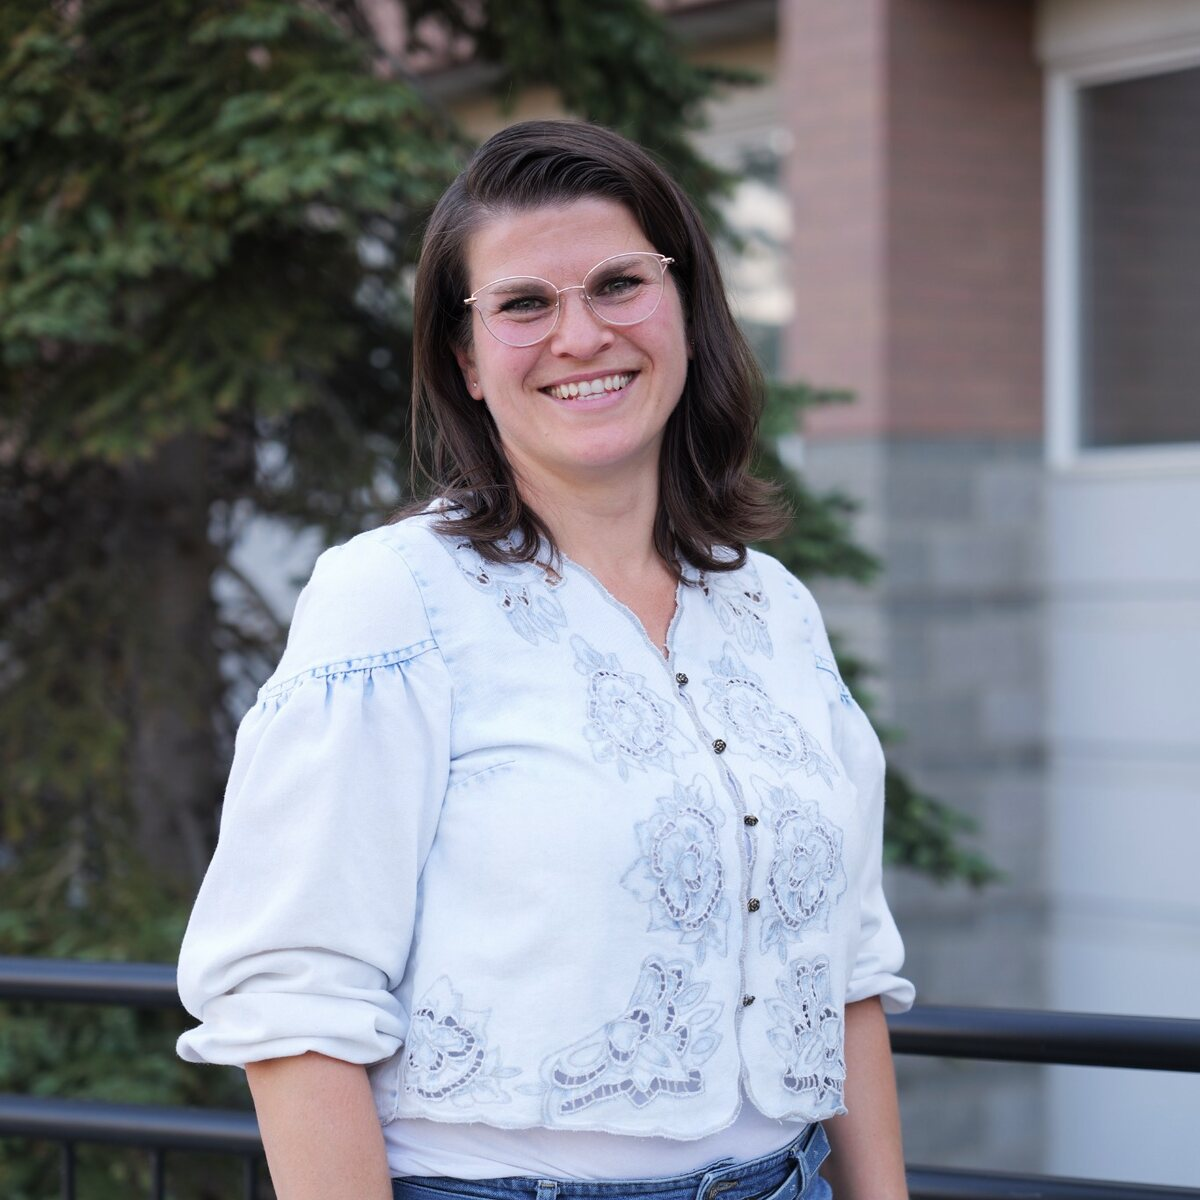
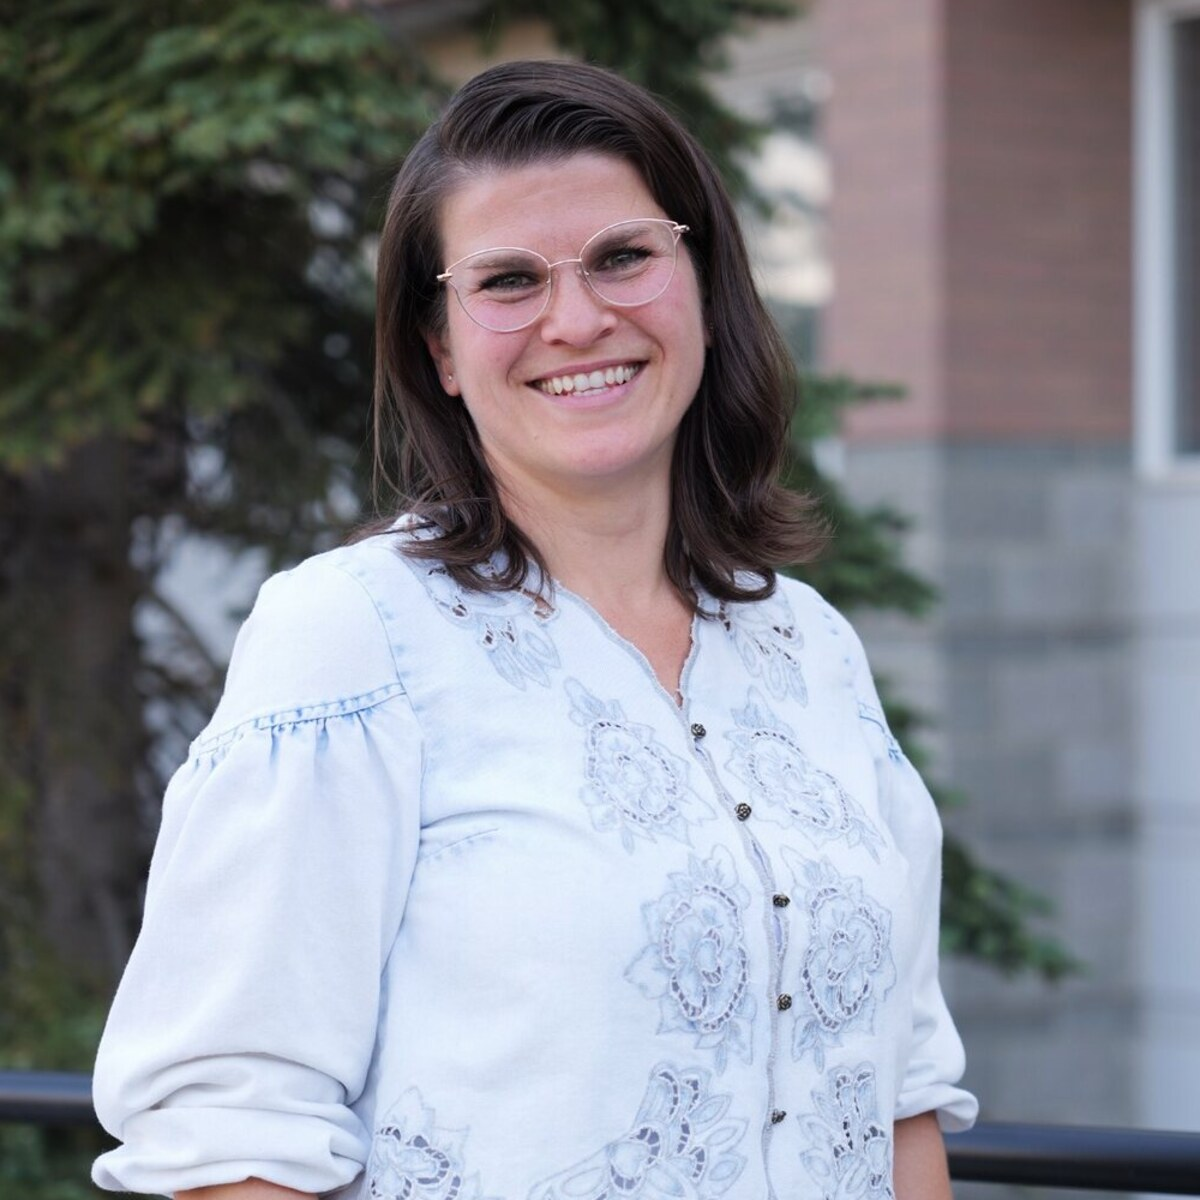
Correct Mary and Caitlin portrait crops

diff --git a/pages/teachers.html b/pages/teachers.html
@@ -257,11 +257,13 @@
       <p class="tp-answer" id="tp-answer"></p>
     </div>
 
-    <ul class="tp-grid"><li class="tp-card" data-grades="home hs jh ms o-elem y-elem" data-search="dan hegelund founder & principal leads our productions, plus leadership and academics. a.i. &amp; machine learning &#8220;aladdin&#8221; &amp; christmas concert critical thinking &amp; debate english leadership mindset math &#8220;peter &amp; alice &mdash; the way home&#8221; piano study hall" data-first="Dan"><button class="tp-face" data-who="DA"><div class="tp-portrait"><img src="../assets/images/teachers/2026-27/dan.jpg" alt="Dan Hegelund" loading="lazy"></div><h3 class="tp-name">Dan Hegelund</h3><p class="tp-role">Founder & Principal</p><p class="tp-line">Leads our productions, plus leadership and academics.</p><p class="tp-teaches">A.I. &amp; Machine Learning, &#8220;Aladdin&#8221; &amp; Christmas Concert, Critical Thinking &amp; Debate, English, Leadership Mindset, Math…</p><span class="tp-open">See their week ↓</span></button></li><li class="tp-card" data-grades="home jh ms o-elem y-elem" data-search="mary hegelund co-founder &amp; director of elementary &amp; school programs leads river tech elementary and helps shape school programs, staff development, family engagement, school culture, field trips, and events. crafts english fine arts make &amp; keep friends math p.e. science silent reading soc. studies study hall" data-first="Mary"><button class="tp-face" data-who="MA"><div class="tp-portrait"><img src="../assets/images/teachers/2026-27/mary.jpg" alt="Mary Hegelund" loading="lazy"></div><h3 class="tp-name">Mary Hegelund</h3><p class="tp-role">Co-Founder &amp; Director of Elementary &amp; School Programs</p>
+    <ul class="tp-grid"><li class="tp-card" data-grades="home hs jh ms o-elem y-elem" data-search="dan hegelund founder & principal leads our productions, plus leadership and academics. a.i. &amp; machine learning &#8220;aladdin&#8221; &amp; christmas concert critical thinking &amp; debate english leadership mindset math &#8220;peter &amp; alice &mdash; the way home&#8221; piano study hall" data-first="Dan"><button class="tp-face" data-who="DA"><div class="tp-portrait"><img src="../assets/images/teachers/2026-27/dan.jpg" alt="Dan Hegelund" loading="lazy"></div><h3 class="tp-name">Dan Hegelund</h3><p class="tp-role">Founder & Principal</p><p class="tp-line">Leads our productions, plus leadership and academics.</p><p class="tp-teaches">A.I. &amp; Machine Learning, &#8220;Aladdin&#8221; &amp; Christmas Concert, Critical Thinking &amp; Debate, English, Leadership Mindset, Math…</p><span class="tp-open">See their week ↓</span></button></li><li class="tp-card" data-grades="home jh ms o-elem y-elem" data-search="mary hegelund co-founder &amp; director of elementary &amp; school programs leads river tech elementary and helps shape school programs, staff development, family engagement, school culture, field trips, and events. crafts english fine arts make &amp; keep friends math p.e. science silent reading soc. studies study hall" data-first="Mary"><button class="tp-face" data-who="MA"><div class="tp-portrait">
+<img src="../assets/images/teachers/2026-27/mary.jpg?v=20260819" alt="Mary Hegelund" loading="lazy">
+</div><h3 class="tp-name">Mary Hegelund</h3><p class="tp-role">Co-Founder &amp; Director of Elementary &amp; School Programs</p>
 <div class="tp-line"><p>Mary Hegelund holds a B.S. and M.S. in Education and is currently pursuing a degree in Theology. She leads River Tech Elementary and is passionate about educating the whole student&mdash;nurturing academic growth, creativity, character, relationships, and the God-given potential of every learner.</p><p>Prior to founding River Tech, Mary worked in education in Sweden and later homeschooled her three children.</p><p>School-wide, Mary helps shape educational programs, staff development, family engagement, and school culture, with a focus on cultivating a relational and supportive learning community. She also coordinates River Tech&rsquo;s field trips and school events.</p></div>
 <p class="tp-teaches">Elementary Language Arts, Math, Science, Social Studies, P.E., Social-Emotional Learning, Arts &amp; Crafts, Field Trips &amp; Events</p>
 <span class="tp-open">See their week ↓</span></button></li><li class="tp-card" data-grades="home hs jh ms o-elem" data-search="caitlin relvas teacher english, literature, social studies, and dance. creative writing critical thinking &amp; debate dance english literature soc. studies" data-first="Caitlin"><button class="tp-face" data-who="CA"><div class="tp-portrait">
-<img src="../assets/images/teachers/caitlin-relvas.jpg?v=20260819b" alt="Caitlin Relvas" loading="lazy">
+<img src="../assets/images/teachers/caitlin-relvas.jpg?v=20260819c" alt="Caitlin Relvas" loading="lazy">
 </div><h3 class="tp-name">Caitlin Relvas</h3><p class="tp-role">Teacher</p><p class="tp-line">English, literature, social studies, and dance.</p><p class="tp-teaches">Creative Writing, Critical Thinking &amp; Debate, Dance, English, Literature, Soc. Studies</p><span class="tp-open">See their week ↓</span></button></li><li class="tp-card" data-grades="home hs jh ms o-elem y-elem" data-search="jordan ezell technology director coding, a.i., robotics, and science. a.i. &amp; machine learning chemistry coding coding / ai math personal finance &amp; family life physics robotics science year book" data-first="Jordan"><button class="tp-face" data-who="JO"><div class="tp-portrait"><img src="../assets/images/teachers/2026-27/jordan.jpg" alt="Jordan Ezell" loading="lazy"></div><h3 class="tp-name">Jordan Ezell</h3><p class="tp-role">Technology Director</p><p class="tp-line">Coding, A.I., robotics, and science.</p><p class="tp-teaches">A.I. &amp; Machine Learning, Chemistry, Coding, Coding / AI, Math, Personal Finance &amp; Family Life…</p><span class="tp-open">See their week ↓</span></button></li><li class="tp-card" data-grades="home hs jh ms o-elem y-elem" data-search="luke hegelund music & media instruments, filmmaking, robotics, and coding. bible coding drill english film making filmmaking math money p.e. at the park or library robotics study hall ukulele" data-first="Luke"><button class="tp-face" data-who="LU"><div class="tp-portrait"><img src="../assets/images/teachers/2026-27/luke.jpg" alt="Luke Hegelund" loading="lazy"></div><h3 class="tp-name">Luke Hegelund</h3><p class="tp-role">Music & Media</p><p class="tp-line">Instruments, filmmaking, robotics, and coding.</p><p class="tp-teaches">Bible, Coding, Drill, English, Film Making, Filmmaking…</p><span class="tp-open">See their week ↓</span></button></li><li class="tp-card" data-grades="home hs jh ms o-elem y-elem" data-search="tiffany young elementary teacher full-time elementary teacher. bible/worship/prayer english fine art fine arts free play games math math/english nutrition &amp; health p.e. at the park or library performing arts production science sketchbook pro soc. studies" data-first="Tiffany"><button class="tp-face" data-who="TI"><div class="tp-portrait"><img src="../assets/images/teachers/2026-27/tiffany.jpg" alt="Tiffany Young" loading="lazy"></div><h3 class="tp-name">Tiffany Young</h3><p class="tp-role">Elementary Teacher</p><p class="tp-line">Full-time Elementary teacher.</p><p class="tp-teaches">Bible/Worship/Prayer, English, Fine Art, Fine Arts, Free Play, Games…</p><span class="tp-open">See their week ↓</span></button></li><li class="tp-card" data-grades="home hs jh ms o-elem y-elem" data-search="charlotte tebow teacher assistant performing arts and musical direction. &#8220;aladdin&#8221; &amp; christmas concert coding digital arts drawing math performing arts production &#8220;peter &amp; alice &mdash; the way home&#8221;" data-first="Charlotte"><button class="tp-face" data-who="CH"><div class="tp-portrait tp-pending"><span>portrait coming</span></div><h3 class="tp-name">Charlotte Tebow</h3><p class="tp-role">Teacher Assistant</p><p class="tp-line">Performing arts and musical direction.</p><p class="tp-teaches">&#8220;Aladdin&#8221; &amp; Christmas Concert, Coding, Digital Arts, Drawing, Math, Performing Arts Production…</p><span class="tp-open">See their week ↓</span></button></li><li class="tp-card" data-grades="home hs jh" data-search="kirsten decker teacher fridays &mdash; english, math, geography, and bible. bible big picture geography english film making" data-first="Kirsten"><button class="tp-face" data-who="KI"><div class="tp-portrait"><img src="../assets/images/teachers/2026-27/kirsten.jpg" alt="Kirsten Decker" loading="lazy"></div><h3 class="tp-name">Kirsten Decker</h3><p class="tp-role">Teacher</p><p class="tp-line">Fridays &mdash; English, math, geography, and Bible.</p><p class="tp-teaches">Bible, Big Picture Geography, English, Film Making</p><span class="tp-open">See their week ↓</span></button></li><li class="tp-card" data-grades="home o-elem y-elem" data-search="emily allison classroom assistant math, robotics, and arts. coding crafts drawing english fine arts math nutrition &amp; health robotics" data-first="Emily"><button class="tp-face" data-who="EM"><div class="tp-portrait"><img src="../assets/images/teachers/2026-27/emily.jpg" alt="Emily Allison" loading="lazy"></div><h3 class="tp-name">Emily Allison</h3><p class="tp-role">Classroom Assistant</p><p class="tp-line">Math, robotics, and arts.</p><p class="tp-teaches">Coding, Crafts, Drawing, English, Fine Arts, Math…</p><span class="tp-open">See their week ↓</span></button></li><li class="tp-card" data-grades="hs jh" data-search="phil munts teacher python and robotics. python robotics" data-first="Phil"><button class="tp-face" data-who="PH"><div class="tp-portrait"><img src="../assets/images/teachers/phil-munts.jpg" alt="Phil Munts" loading="lazy"></div><h3 class="tp-name">Phil Munts</h3><p class="tp-role">Teacher</p><p class="tp-line">Python and robotics.</p><p class="tp-teaches">Python, Robotics</p><span class="tp-open">See their week ↓</span></button></li><li class="tp-card" data-grades="hs jh ms o-elem y-elem" data-search="cristina maness spanish spanish. spanish" data-first="Cristina"><button class="tp-face" data-who="CR"><div class="tp-portrait"><img src="../assets/images/teachers/cris-maness.jpg" alt="Cristina Maness" loading="lazy"></div><h3 class="tp-name">Cristina Maness</h3><p class="tp-role">Spanish</p><p class="tp-line">Spanish.</p><p class="tp-teaches">Spanish</p><span class="tp-open">See their week ↓</span></button></li><li class="tp-card" data-grades="hs" data-search="ryan killackey filmmaking high-school filmmaking. filmmaking" data-first="Ryan"><button class="tp-face" data-who="RY"><div class="tp-portrait tp-pending"><span>portrait coming</span></div><h3 class="tp-name">Ryan Killackey</h3><p class="tp-role">Filmmaking</p><p class="tp-line">High-school filmmaking.</p><p class="tp-teaches">Filmmaking</p><span class="tp-open">See their week ↓</span></button></li><li class="tp-card" data-grades="hs" data-search="penny burciaga operations &amp; leadership teaches leadership mindset and organizational design &amp; management. leadership mindset organizational design &amp; management" data-first="Penny"><button class="tp-face" data-who="PE"><div class="tp-portrait tp-pending"><span>portrait coming</span></div><h3 class="tp-name">Penny Burciaga</h3><p class="tp-role">Operations &amp; Leadership</p><p class="tp-line">Teaches Leadership Mindset and Organizational Design &amp; Management.</p><p class="tp-teaches">Leadership Mindset, Organizational Design &amp; Management</p><span class="tp-open">See their week ↓</span></button></li><li class="tp-card" data-grades="home" data-search="angie costumes costumes for both productions. costumes for &ldquo;aladdin&rdquo; &amp; christmas concert costumes for &ldquo;peter &amp; alice&rdquo;, talent show &amp; summer concert" data-first="Angie"><button class="tp-face" data-who="AN"><div class="tp-portrait tp-pending"><span>portrait coming</span></div><h3 class="tp-name">Angie</h3><p class="tp-role">Costumes</p><p class="tp-line">Costumes for both productions.</p><p class="tp-teaches">Costumes for &ldquo;Aladdin&rdquo; &amp; Christmas Concert, Costumes for &ldquo;Peter &amp; Alice&rdquo;, Talent Show &amp; Summer Concert</p><span class="tp-open">See their week ↓</span></button></li><li class="tp-card" data-grades="home" data-search="kara mcarthur props props for both productions. props for &ldquo;aladdin&rdquo; &amp; christmas concert props for &ldquo;peter &amp; alice&rdquo;, talent show &amp; summer concert" data-first="Kara"><button class="tp-face" data-who="KA"><div class="tp-portrait tp-pending"><span>portrait coming</span></div><h3 class="tp-name">Kara McArthur</h3><p class="tp-role">Props</p><p class="tp-line">Props for both productions.</p><p class="tp-teaches">Props for &ldquo;Aladdin&rdquo; &amp; Christmas Concert, Props for &ldquo;Peter &amp; Alice&rdquo;, Talent Show &amp; Summer Concert</p><span class="tp-open">See their week ↓</span></button></li><li class="tp-card" data-grades="" data-search="brooke donnelly executive assistant the first person you will hear back from when you write to the school." data-first="Brooke"><button class="tp-face" data-who="BR"><div class="tp-portrait tp-pending"><span>portrait coming</span></div><h3 class="tp-name">Brooke Donnelly</h3><p class="tp-role">Executive Assistant</p><p class="tp-line">The first person you will hear back from when you write to the school.</p></button></li></ul>
     <p class="tp-empty" id="tp-empty" hidden>No one matches that just yet. Clear the filters and try another word.</p>
 
